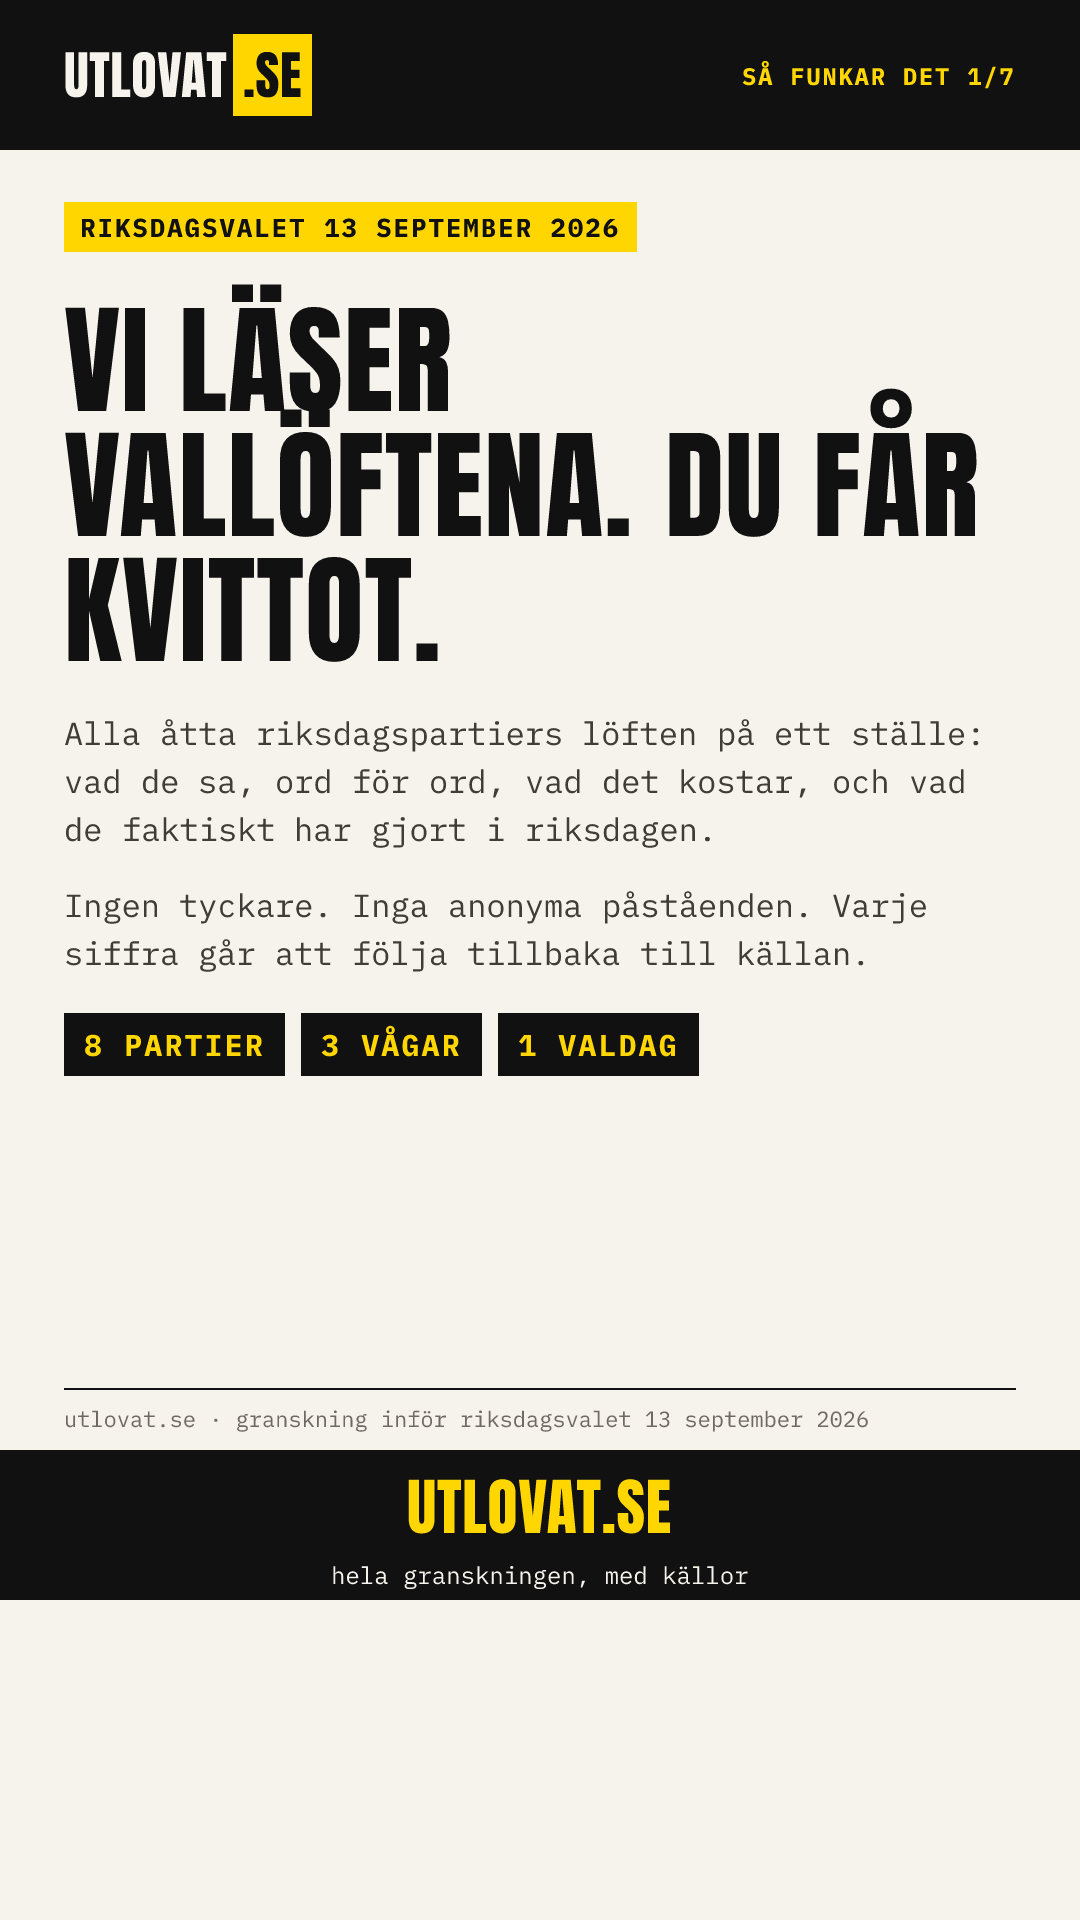
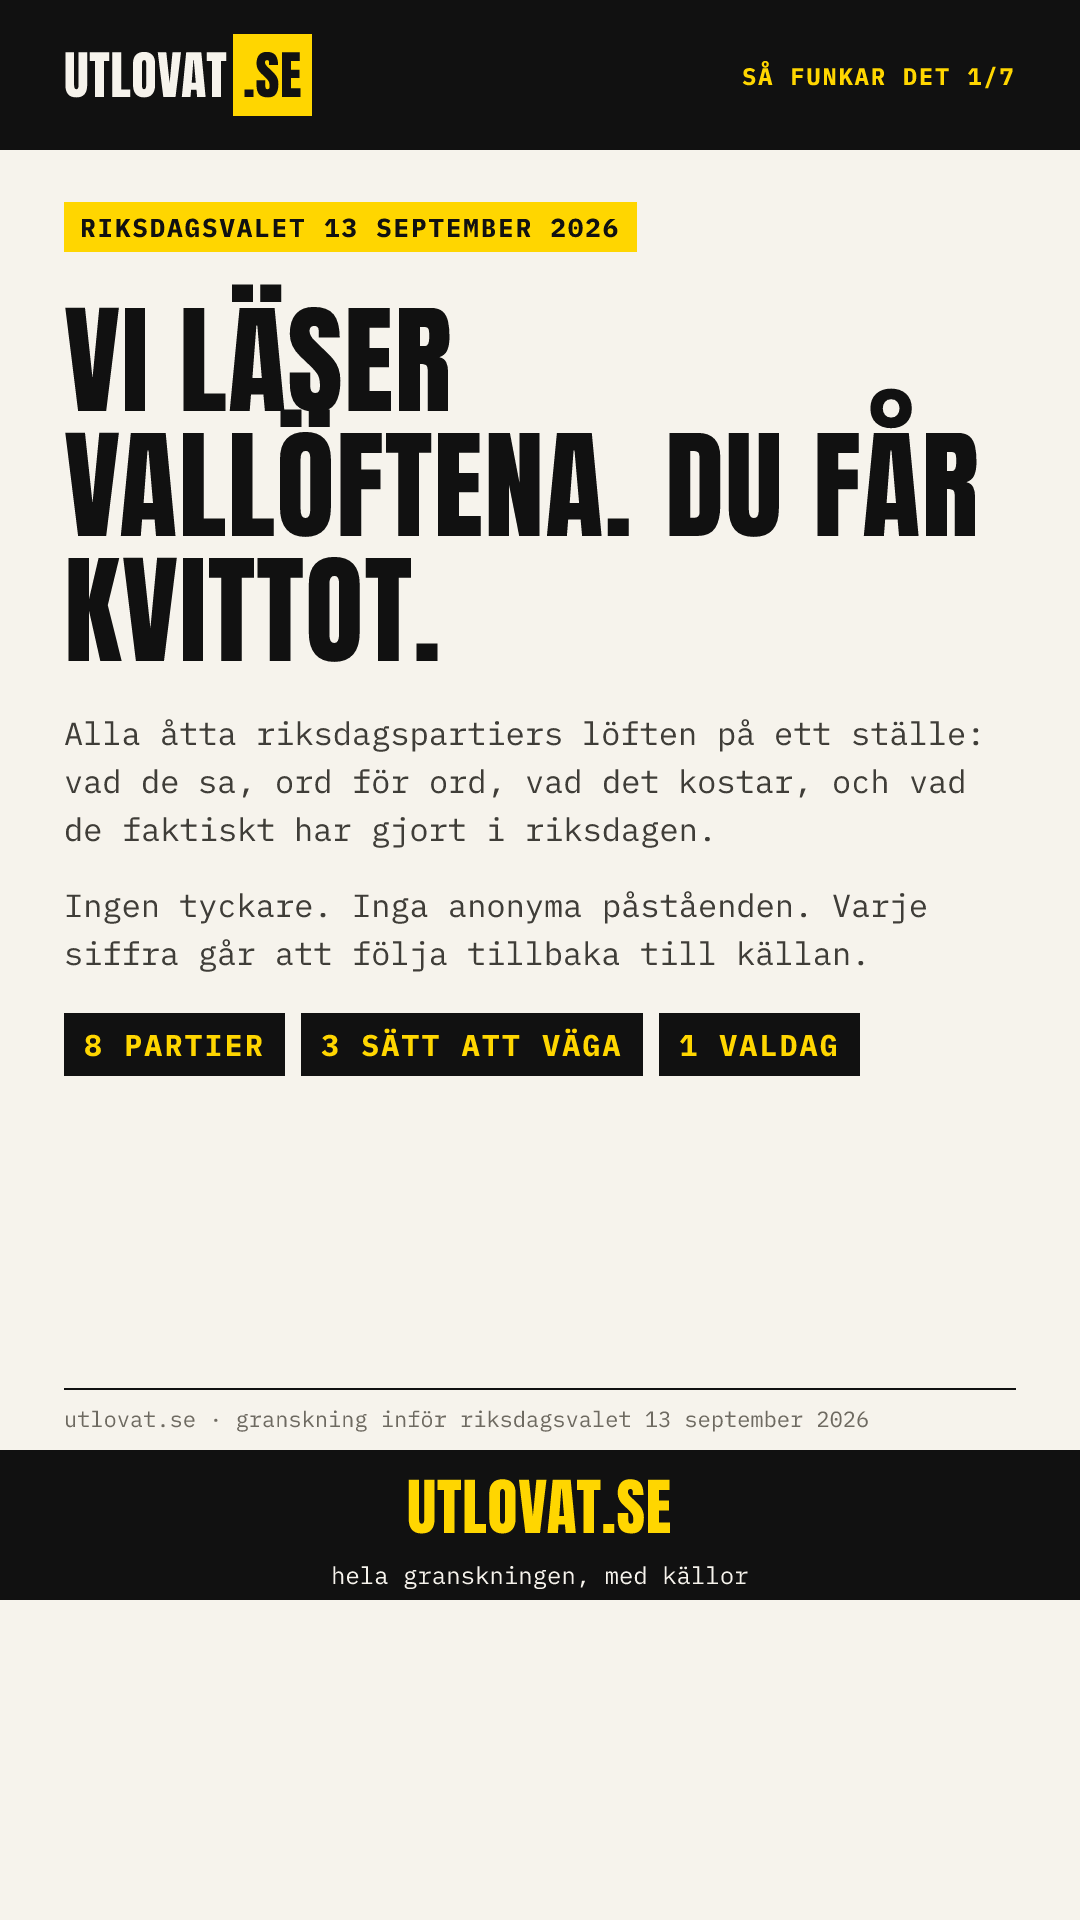
Kanalbilderna säger «tre sätt att väga» i stället för «tre vågar»
«TRE VÅGAR» i versaler läses lika gärna som verbet. Rubriken säger nu vad
vågarna gör i stället för vad de heter, och faktaraderna med den. Kickern på
a2 är omskriven till «SAMMA PARTI, TRE MÅTT» för att inte upprepa «tre sätt»,
och bilden heter a2-tre-satt-att-vaga.png.

Bildernas passningsgrind är grön — innehållet ryms med marginal trots den
längre texten.

Changed region(s): [[0.3361, 0.5, 0.7944, 0.5625]]

diff --git a/kanal/TEXTER.md b/kanal/TEXTER.md
@@ -23,7 +23,7 @@ mycket att nästa runda tal ligger under det, eller sjunkit under sitt eget golv
 - Rubrik: **VI LÄSER VALLÖFTENA. DU FÅR KVITTOT.**
 - Text: Alla åtta riksdagspartiers löften på ett ställe: vad de sa, ord för ord, vad det kostar, och vad de faktiskt har gjort i riksdagen.
 - Text: Ingen tyckare. Inga anonyma påståenden. Varje siffra går att följa tillbaka till källan.
-- Faktarad: 8 PARTIER · 3 VÅGAR · 1 VALDAG
+- Faktarad: 8 PARTIER · 3 SÄTT ATT VÄGA · 1 VALDAG
 
 **Källrad på bilden:** utlovat.se · granskning inför riksdagsvalet 13 september 2026
 
@@ -31,14 +31,14 @@ mycket att nästa runda tal ligger under det, eller sjunkit under sitt eget golv
 
 > Vi läser alla åtta riksdagspartiers vallöften och visar vad de kostar, var partierna står och vad de faktiskt gjort i riksdagen. Med citat, källa och arkivkopia på varje påstående. utlovat.se
 
-## a2-tre-vagar.png
+## a2-tre-satt-att-vaga.png
 
 *SÅ FUNKAR DET 2/7 — lodrät 1080×1920*
 
 **Skärmtext**
 
-- Överrad: TRE SÄTT ATT GRANSKA SAMMA PARTI
-- Rubrik: **TRE VÅGAR**
+- Överrad: SAMMA PARTI, TRE MÅTT
+- Rubrik: **TRE SÄTT ATT VÄGA**
 - 1. **FLÄSKVÅGEN** — Vad löftena kostar. Varje löfte har ett citat, en källa och en uträkning du kan följa steg för steg.
 - 2. **FRÅGEVÅGEN** — Var partierna står i 10 sakfrågor. Ruta för ruta, belagt med exakta citat.
 - 3. **HANDLINGSVÅGEN** — Håller de vad de lovar? Löftena vägs mot vad partierna och ledamöterna gjort i riksdagen.
@@ -47,7 +47,7 @@ mycket att nästa runda tal ligger under det, eller sjunkit under sitt eget golv
 
 **Förslag på bildtext**
 
-> Tre vågar: vad löftena kostar (Fläskvågen), var partierna står (Frågevågen) och vad de faktiskt gjort i riksdagen (Handlingsvågen). Allt på utlovat.se
+> Tre sätt att väga: vad löftena kostar (Fläskvågen), var partierna står (Frågevågen) och vad de faktiskt gjort i riksdagen (Handlingsvågen). Allt på utlovat.se
 
 ## a3-omfattningen.png
 
@@ -381,7 +381,7 @@ mycket att nästa runda tal ligger under det, eller sjunkit under sitt eget golv
 - Rubrik: **VI RÄKNAR. DU KAN KONTROLLERA.**
 - Text: Utlovat.se samlar alla åtta riksdagspartiers vallöften inför den 13 september 2026 och gör tre saker med dem: prissätter dem, ställer dem mot varandra i sakfrågorna, och väger dem mot riksdagsarbetet.
 - Text: Varje påstående bär partiets egna ord, en källa och en arkivkopia där citatet måste stå kvar. Ingen summa publiceras utan att en människa godkänt den, och fel rättas synligt i en öppen logg.
-- Faktarad: 8 PARTIER · 349 MANDAT · 3 VÅGAR
+- Faktarad: 8 PARTIER · 349 MANDAT · 3 SÄTT ATT VÄGA
 - Panel *FLÄSKVÅGEN* — **VAD LÖFTENA KOSTAR**
   - 553 — löften, vart och ett med exakt citat, källa och en öppen uträkning
 - Panel *FRÅGEVÅGEN* — **VAR PARTIERNA STÅR**
